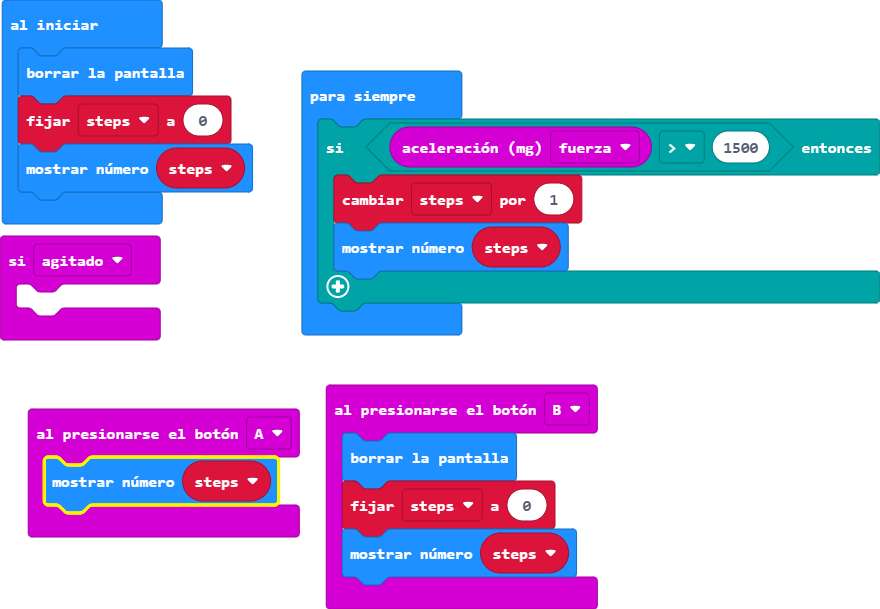
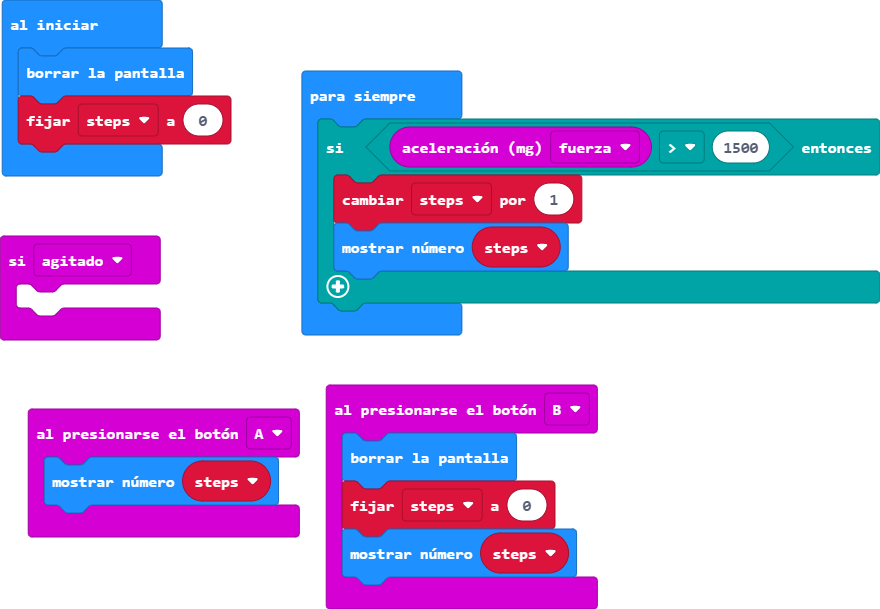
Actualizar main.blocks, main.ts

Changed region(s): [[0.0, 0.2184, 0.3068, 0.3744], [0.0307, 0.7488, 0.3375, 0.8424]]

diff --git a/main.ts b/main.ts
@@ -12,7 +12,6 @@ input.onButtonPressed(Button.B, function () {
 let steps = 0
 basic.clearScreen()
 steps = 0
-basic.showNumber(steps)
 basic.forever(function () {
     if (input.acceleration(Dimension.Strength) > 1500) {
         steps += 1
